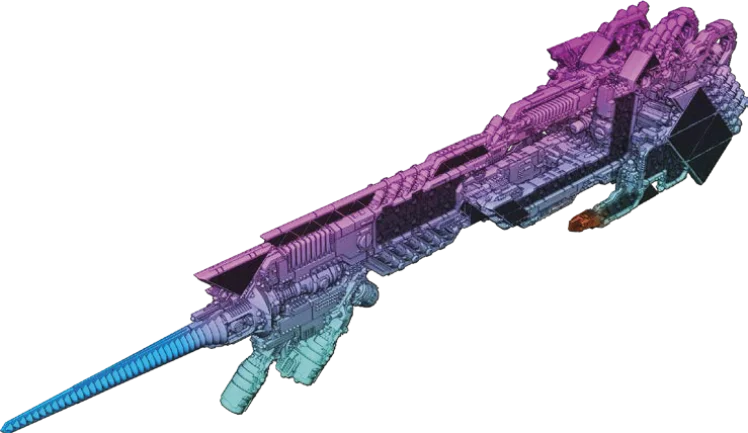
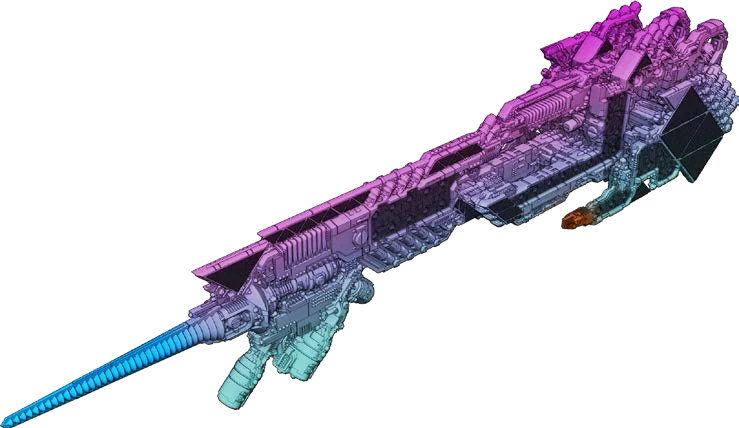
Update 3 famous-admiral ship arts to the new transparent cutouts
Converted agency-bastion-battleship -> agency_bastion.webp, granite-halsey-
washington -> halsey.webp (+granite_halsey.webp), havelock-new-york ->
havelock.webp, matching the ADMIRAL_ART map the app already uses. Bump SW v73
-> v74.

(Guy Fawkes / Parliament has no admiral in our data yet, and the deployable-
feature / station arts aren't wired to any lookup - both tracked for follow-up.)

diff --git a/sw.js b/sw.js
@@ -3,7 +3,7 @@
 // populating the cache as resources are fetched.
 // Bump this on every deploy so existing clients purge the old cache on activate
 // (the app updates frequently — stale assets must not survive a new build).
-const CACHE = 'dfc-cache-v73';
+const CACHE = 'dfc-cache-v74';
 // Same-origin code/data that MUST be fresh when online. Network-first alone is
 // not enough: fetch() still consults the browser HTTP cache, so a client can
 // keep running a stale app.js for as long as GitHub Pages' cache headers allow.

diff --git a/scripts/convert-admiral-art.py b/scripts/convert-admiral-art.py
@@ -1,0 +1,23 @@
+"""Convert the named admiral-ship PNGs to the webp names the app's ADMIRAL_ART
+map already references, so the famous-admiral flagship art updates to the new
+transparent cutouts."""
+import os, glob
+from PIL import Image
+
+MAP = {
+    'agency-bastion-battleship': ['agency_bastion'],
+    'granite-halsey-washington': ['halsey', 'granite_halsey'],
+    'havelock-new-york': ['havelock'],
+}
+pngs = {os.path.splitext(os.path.basename(p))[0].lower(): p for p in glob.glob('DFC-Art-Assets/**/*.png', recursive=True)}
+done = 0
+for slug, targets in MAP.items():
+    src = pngs.get(slug)
+    if not src:
+        print('MISSING source:', slug); continue
+    im = Image.open(src).convert('RGBA')
+    for t in targets:
+        im.save(os.path.join('assets/art', t + '.webp'), 'WEBP', quality=88, method=6)
+        print(' ', slug, '->', t + '.webp')
+        done += 1
+print('converted', done, 'webp files')
